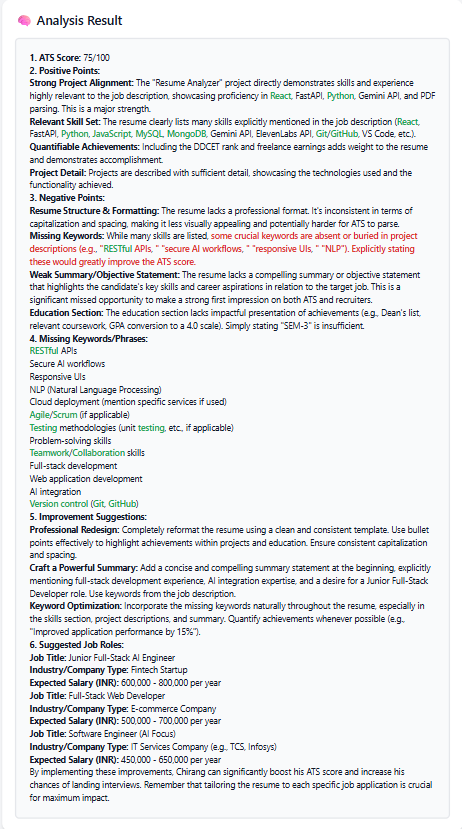
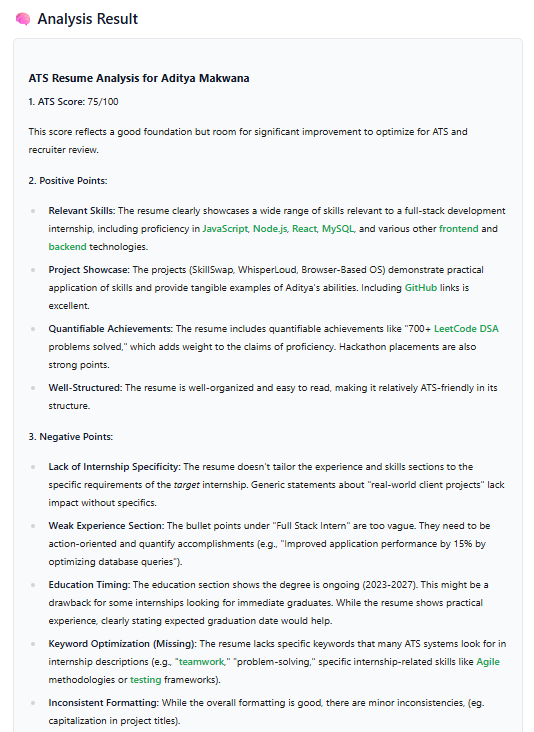
modifications

Changed region(s): [[0.0303, 0.0, 0.9394, 0.9918]]

diff --git a/resume-analyzer-ui/src/App.js b/resume-analyzer-ui/src/App.js
@@ -176,15 +176,16 @@ function App() {
           <section className={`p-6 rounded-2xl shadow-md ${darkMode ? 'bg-gray-800 text-white' : 'bg-white text-gray-900'}`}>
   <h2 className="text-2xl font-semibold mb-4">🧠 Analysis Result</h2>
   <div
-  className={`max-w-none p-6 rounded-lg border ${
+  className={`prose max-w-none p-6 rounded-lg border ${
     darkMode
       ? 'bg-gray-900 text-gray-100 border-gray-700'
       : 'bg-gray-50 text-gray-900 border-gray-200'
-  }`}
+  } prose-h2:text-lg prose-h2:font-bold prose-h2:mt-6 prose-h2:mb-2 prose-strong:text-base`}
   dangerouslySetInnerHTML={{
     __html: marked(highlightMatchingKeywords(analysisResult)),
   }}
 ></div>
+
 
 
 </section>

diff --git a/README.md b/README.md
@@ -12,9 +12,10 @@ A full-stack application that analyzes your resume against a job description usi
 
 ### 🧠 Analysis Result
 ![Screenshot 2](Screenshots/screenshot2.png)
+![Screenshot 3](Screenshots/screenshot4.png)
 
 ### 🌙 Dark Mode
-![Screenshot 3](Screenshots/screenshot3.png)
+![Screenshot 4](Screenshots/screenshot3.png)
 
 ---
 
